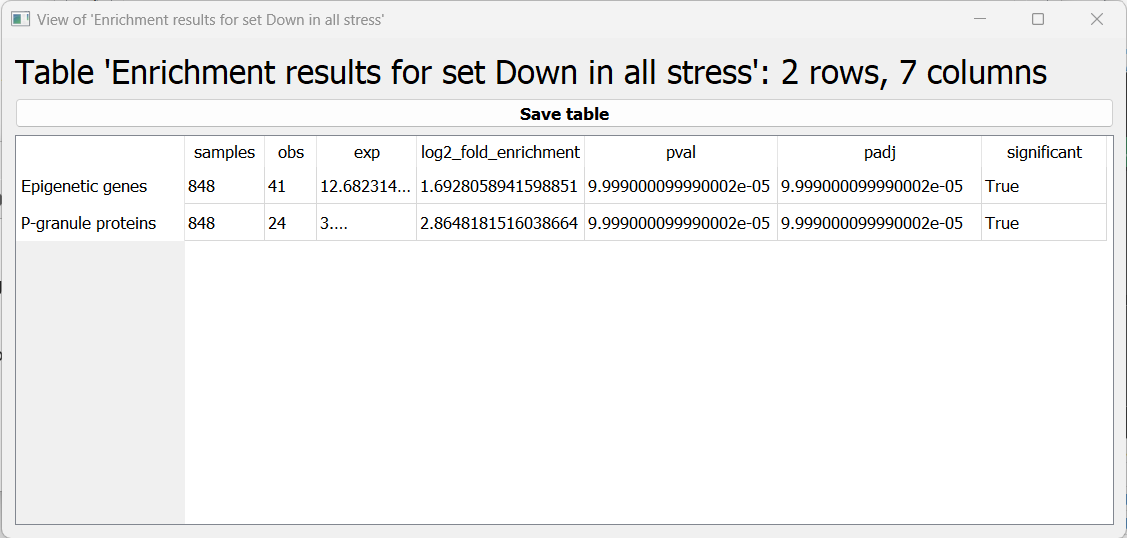
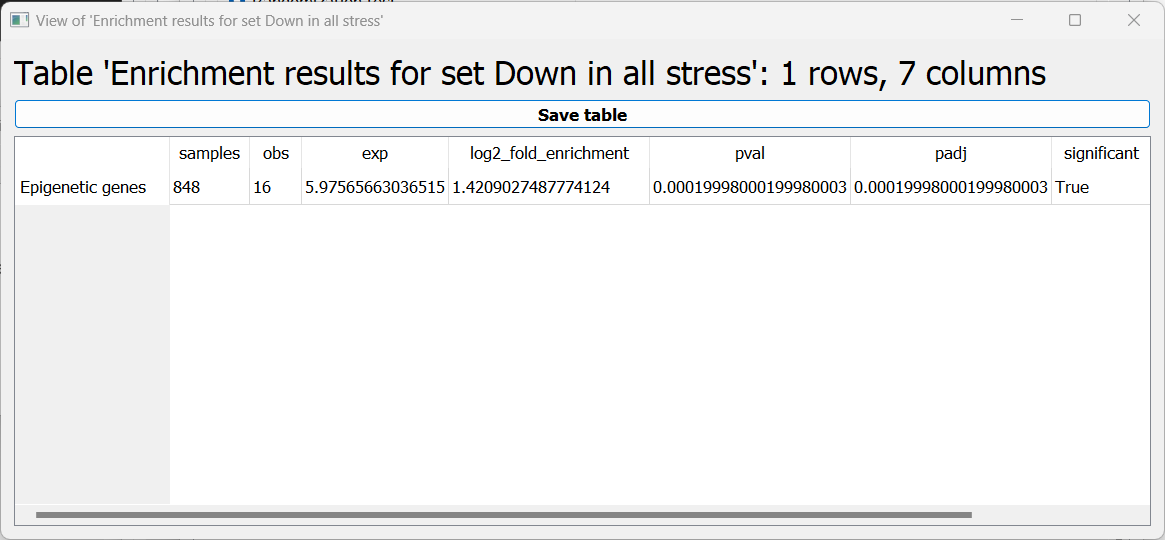
finished RNAlysis tutorial

diff --git a/docs/source/tutorial.rst b/docs/source/tutorial.rst
@@ -435,7 +435,35 @@ Analysis #2 - differential expression data
 
 The dataset
 =================
-For the second analysis, we will use a publicly available dataset from #TODO. This dataset describes...
+In the second analysis, we will analyze three publicly available datasets from GEO. Each individual dataset is an RNA sequencing experiment of *Caenorhabidtis elegans* nematodes, measuring the effect of a particular stress condition on gene expression.
+Our goal in this analysis will be to examine the similarities between the different stress conditions, and to answer a specific question - how are Epigenetic genes and pathways affected by exposure to stress?
+
+Unlike in the first analysis, in this analysis we will not start from a pre-made counts table.
+Instead, we are going to pre-process and quantify each dataset directly from the raw FASTQ files that are available on GEO.
+
+The datasets we will use are:
+
+1. mRNA sequencing of worms exposed to osmotic stress: `GSE107704 <https://www.ncbi.nlm.nih.gov/geo/query/acc.cgi?acc=GSE107704>`_. This is a single-end unstranded RNA sequencing experiment.
+    *  Control sample 1 - SRR6348197
+    *  Control sample 2 - SRR6348198
+    *  Control sample 3 - SRR6348199
+    *  Osmotic sample 1 - SRR6348200
+    *  Osmotic sample 2 - SRR6348201
+    *  Osmotic sample 3 - SRR6348202
+2. mRNA sequencing of worms exposed to starvation: `GSE124178 <https://www.ncbi.nlm.nih.gov/geo/query/acc.cgi?acc=GSE124178>`_. This is a paired-end stranded RNA sequencing experiment.
+    *  Control sample 1 - SRR8359132
+    *  Control sample 2 - SRR8359133
+    *  Control sample 3 - SRR8359142
+    *  Starvation sample 1 - SRR8359134
+    *  Starvation sample 2 - SRR8359135
+    *  Starvation sample 3 - SRR8359136
+3. mRNA sequencing of worms exposed to heat shock: `GSE132838 <https://www.ncbi.nlm.nih.gov/geo/query/acc.cgi?acc=GSE132838>`_. This is a paired-end stranded RNA sequencing experiment.
+    *  Control sample 1 - SRR9310678
+    *  Control sample 2 - SRR9310679
+    *  Control sample 3 - SRR9310680
+    *  Heat sample 1 - SRR9310681
+    *  Heat sample 2 - SRR9310682
+    *  Heat sample 3 - SRR9310683
 
 Quantify FASTA files and Differential Expression Analysis
 ==========================================================
@@ -628,22 +656,27 @@ Let's rename the tables to reflect the names of the experiments, and proceed to 
 Run differential expression analysis with *DESeq2*
 ------------------------------------------------------
 
-#TODO
+We can now start Differential Expression analysis.
+For this purpose we will use `DESeq2 <https://bioconductor.org/packages/release/bioc/html/DESeq2.html>`_ - an R package for differential expression analysis.
+Before proceeding with this step, make sure you have `installed R <https://cran.r-project.org/bin/>`_ on your computer.
+You don't have to install DESeq2 on your own - *RNAlysis* can install it for you, as long as you have installed the R language on your computer already.
+
+To open the Differential Expression window, choose an *RNAlysis* tab with one of the scaled count tables, click on the "General" tab, and from the drop-down menu below select "Run DESeq2 differential expression":
 
 .. image:: /tutorial_screenshots/02b01_deseq2.png
   :width: 600
   :alt: Open the differential expression window
 
-#TODO
+The Differential Expression window should now open. On the left side of the window, set the path of your R installation (or keep it on 'auto' if you have previously added R to your computer's PATH).
 
 .. image:: /tutorial_screenshots/02b02_deseq2.png
   :width: 600
   :alt: Differential expression
 
-Next, we need to define a **sample table** for each of our count tables.
-The first column of the sample table should contain the names of the samples in the count table.
-Each other column should contain a variable to be added to the statistical design formula of the dataset. For example: experimental condition, genotype, or biological replicate/batch.
-For example, the sample table for our osmotic stress dataset would look like this:
+Next, we need to define a **design matrix** for each of our count tables.
+The first column of the design matrix should contain the names of the samples in the count table.
+Each other column should contain a variable to be added to the experimental design formula of the dataset. For example: experimental condition, genotype, or biological replicate/batch.
+For example, the design matrix for our osmotic stress dataset would look like this:
 
 +-------+------------+--------+
 | Name  | condition  | batch  |
@@ -661,18 +694,36 @@ For example, the sample table for our osmotic stress dataset would look like thi
 | Osm3  | Osm        | C      |
 +-------+------------+--------+
 
-#TODO
+Once you have prepared your design matrix, choose that file from the DESeq2 window and click on the "Load design matrix" button:
 
 .. image:: /tutorial_screenshots/02b03_deseq2.png
   :width: 600
   :alt: Differential expression - load sample table
 
-#TODO
+The right side of the window will now update, allowing you to choose which pairwise comparisons you want to run, based on your design matrix.
+You can make as many pairwise comparisons and you want, each comparing two levels of one of the variables in the design matrix.
+In our case, we are only interested in one comparison - osmotic stress VS control.
+Note that the order of conditions in the comparison matters - the first condition will be the numerator in the comparison, and the second condition will be the denominator.
 
 .. image:: /tutorial_screenshots/02b04_deseq2.png
   :width: 600
   :alt: Differential expression - choose pairwise comparisons
 
+After picking the comparisons you want to run, click on the "Start DESeq2".
+
+When the analysis ends, a dialog box will pop up, prompting you to choose which differential expression tables do you want to load into *RNAlysis*:
+
+.. image:: /tutorial_screenshots/02b05_deseq2.png
+  :width: 600
+  :alt: Differential expression - choose tables to load
+
+After choosing to load the table, it will open in a new tab in *RNAlysis*:
+
+.. image:: /tutorial_screenshots/02b06_deseq2.png
+  :width: 600
+  :alt: Differential expression - output table
+
+We can now repeat the same procedure with the other two count tables, and proceed with analyzing the differential expression tables.
 
 Data filtering and visualization with Pipelines
 =================================================
@@ -921,11 +972,36 @@ Now that we have a test set, a background set, and attributes we want to measure
 Define our custom enrichment attributes
 ----------------------------------------
 
-#TODO
+For this analysis, we want to find out whether genes downregulated in all stress conditions are enriched for epigenetic genes.
+Unfortunately, the most common sources for functional gene annotation, Gene Ontology (GO) and KEGG, do not contain a single, well-annotated category of epigenetic genes in *Caenorhabditis elegans* nematodes.
+Therefore, to be able to test this hypothesis, we will have to source our own annotations.
 
-.. image:: /tutorial_screenshots/02g02_enrichment.png
-  :width: 600
-  :alt: Enrichment analysis - custom enrichment attributes
+Luckily, *RNAlysis* supports enrichment analysis with annotations for user-defined attributes. These could be anything - from general categories like "epigenetic genes" and "newly-evolved genes" to highly specific categories like "genes whose codon usage deviates from the norm".
+The annotations can be either categorial (yes/no - whether a gene belongs to the category or not), or non-categorical (any numerical value - distance to nearest paralog in base-pairs, expression level in a certain tissue, etc).
+
+A legal **Attribute Reference Table** for *RNAlysis* should follow the following format:
+Every row in the table represents a gene/genmoc feature.
+The first column of the table should contain the gene names/IDs. Every other column in the table represents a user-defined attribute/category (in our case, "epigenetic genes").
+In each cell, set the value to NaN if the gene in this row is negative for the attribute (in our example - not an epigenetic gene), and any other value if the gene in this row is positive for the attirbute.
+As en example, see this mock Attribute Reference Table:
+
++----------------+--------------------+-------------+--------=---------+
+| feature_indices| Epigenetic genes   | Has paralogs |  gut expression |
++================+====================+=============+==================+
+| WBGene0000001  |            1       |     NaN      |         13.7    |
++----------------+--------------------+--------------+-----------------+
+| WBGene0000002  |           NaN      |      1       |         241     |
++----------------+--------------------+--------------+-----------------+
+| WBGene0000003  |           NaN      |      1       |         3.6     |
++----------------+--------------------+--------------+-----------------+
+| WBGene0000004  |            1       |      1       |         NaN     |
++----------------+--------------------+--------------+-----------------+
+| WBGene0000005  |            1       |     NaN      |         21.5    |
++----------------+--------------------+--------------+-----------------+
+
+For our analysis, we curated a list of epigenetic genes based on gene lists from the following publications: `Houri et al 2014 <https://doi.org/10.1016/j.cell.2016.02.057>`_, `Dalzell et al 2011 <https://doi.org/10.1371/journal.pntd.0001176>`_, `Yigit et al 2006 <https://doi.org/10.1016/j.cell.2006.09.033>`_, and based on existing GO annotations.
+You can find the pre-made curated Attribute Reference Table `here <https://raw.githubusercontent.com/GuyTeichman/RNAlysis/development/tests/test_files/attribute_reference_table.csv>`_.
+
 
 Running enrichment analysis
 ----------------------------
